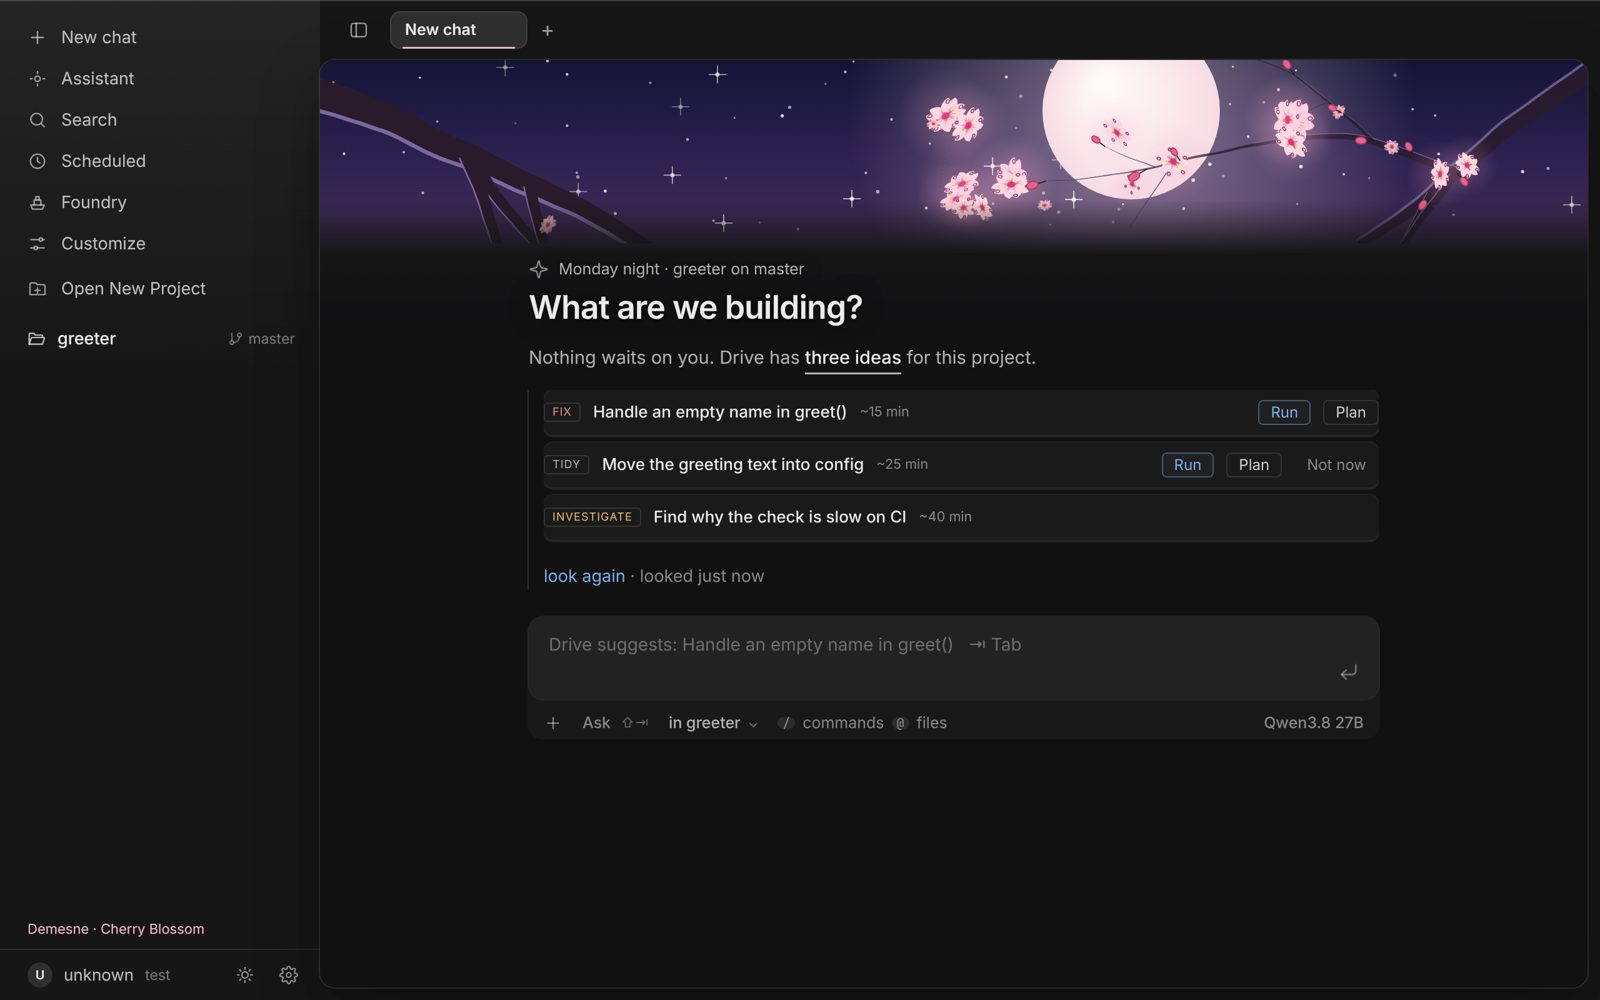
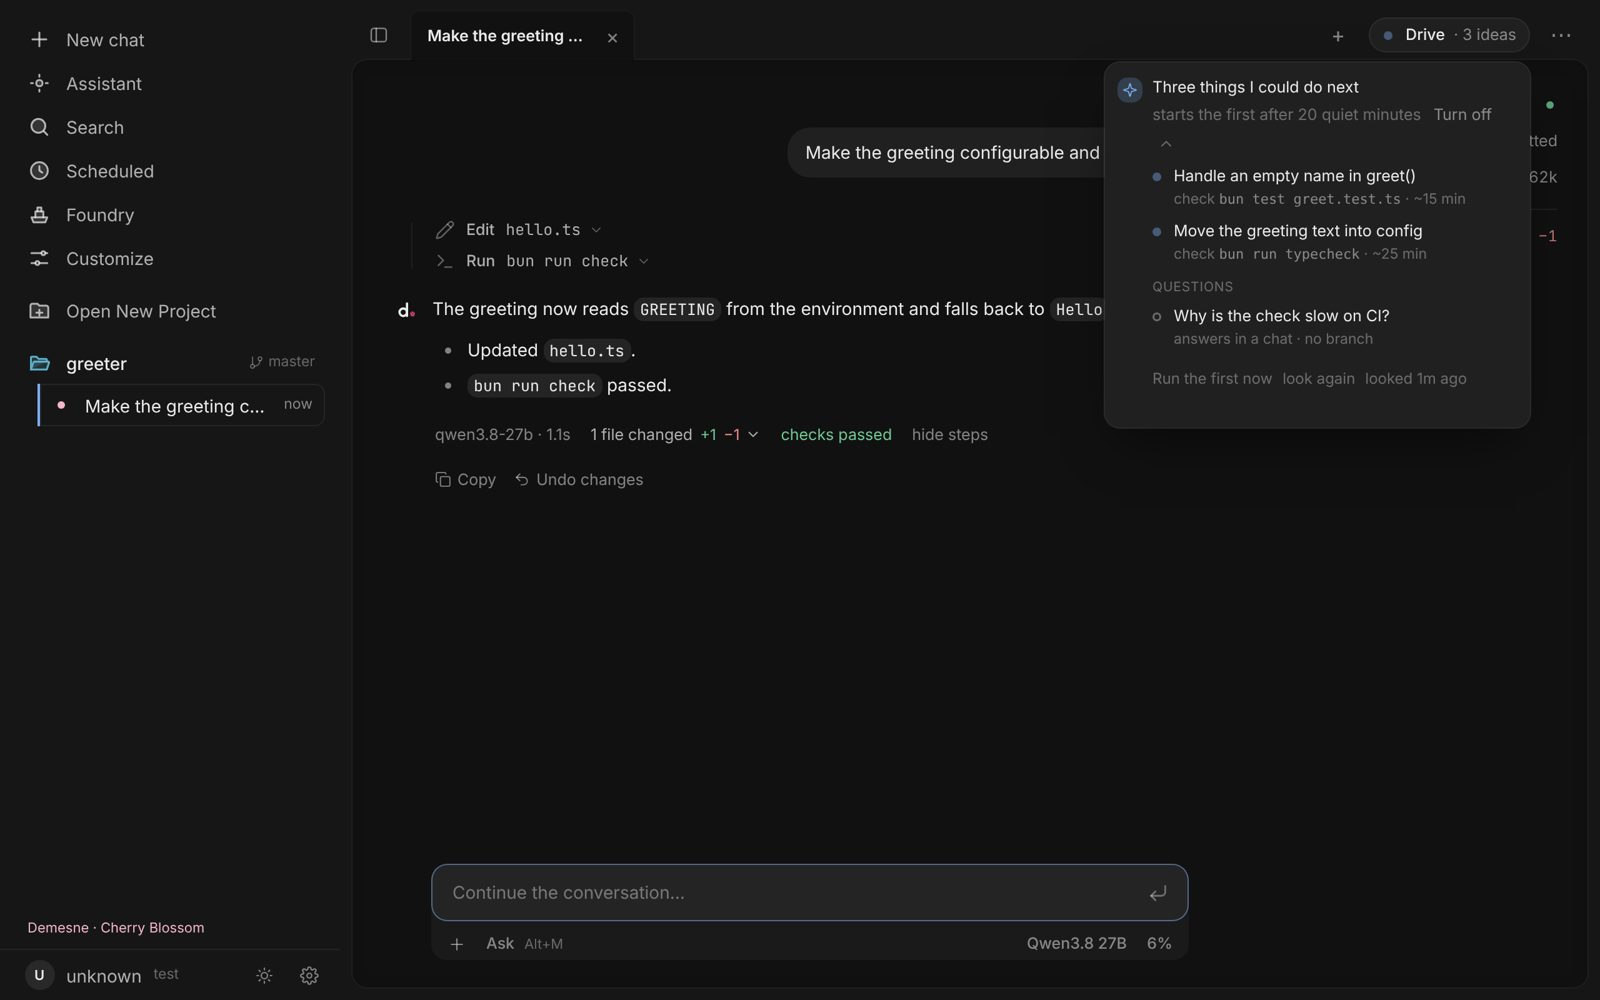
Use v0.8.21 screenshots in the November post
Claude-Session: https://claude.ai/code/session_017QptKq5R5T5UZgptgoKEo8

diff --git a/app/notes/from-a-coding-cli-to-my-own-domain/page.tsx b/app/notes/from-a-coding-cli-to-my-own-domain/page.tsx
@@ -49,15 +49,15 @@ export default function FromACodingCliToMyOwnDomain() {
           rewind to any step.
         </p>
         <figure className="post-figure">
-          <img src="/images/demesne/home.jpg" alt="Demesne's home screen: a cherry blossom banner over the question What are we building?, with Drive's suggestion in the composer" loading="lazy" />
-          <figcaption>Demesne’s home screen. Drive has already looked at the project and suggests what to work on next.</figcaption>
+          <img src="/images/demesne/home.jpg" alt="Demesne's home screen: a cherry blossom banner over the question What are we building?, with the composer below" loading="lazy" />
+          <figcaption>Demesne’s home screen: pick a project and describe a change.</figcaption>
         </figure>
         <figure className="post-figure">
-          <img src="/images/demesne/ask.jpg" alt="A finished turn in Demesne: the edit to hello.ts shown as a diff, the check passing, and a short summary" loading="lazy" />
-          <figcaption>A finished request: the edit opens as a diff, the check runs, and the summary says what changed.</figcaption>
+          <img src="/images/demesne/ask.jpg" alt="A finished turn in Demesne: one line for the edit to hello.ts, one for the passing check, and a short summary" loading="lazy" />
+          <figcaption>A finished request: the edit and the check each fold into one line, the summary says what changed, and the side panel shows the branch, the model and the changed file.</figcaption>
         </figure>
         <p className="figure-note">
-          Screenshots are from the real app running a demo project.
+          Screenshots are from the current release (v0.8.21) running a demo project.
         </p>
         <p>
           The model is my choice. It can run on my own machine, come from a Codex plan, or come
@@ -74,8 +74,8 @@ export default function FromACodingCliToMyOwnDomain() {
           that reaches beyond my machine, such as pushing code or publishing, still needs my approval.
         </p>
         <figure className="post-figure">
-          <img src="/images/demesne/drive.jpg" alt="Drive's three ideas for a project, each with Run and Plan buttons" loading="lazy" />
-          <figcaption>Drive’s ideas for a project. Run does the work in its own branch; Plan writes a plan first.</figcaption>
+          <img src="/images/demesne/drive.jpg" alt="Drive's panel listing three things it could do next, with Run the first now and look again" loading="lazy" />
+          <figcaption>Drive’s ideas, opened from the Drive button in the top bar. If I leave it alone, it starts the first one after 20 quiet minutes.</figcaption>
         </figure>
         <p>
           Two other ideas grew from there. Threads let one chat split a job into up to three parallel
